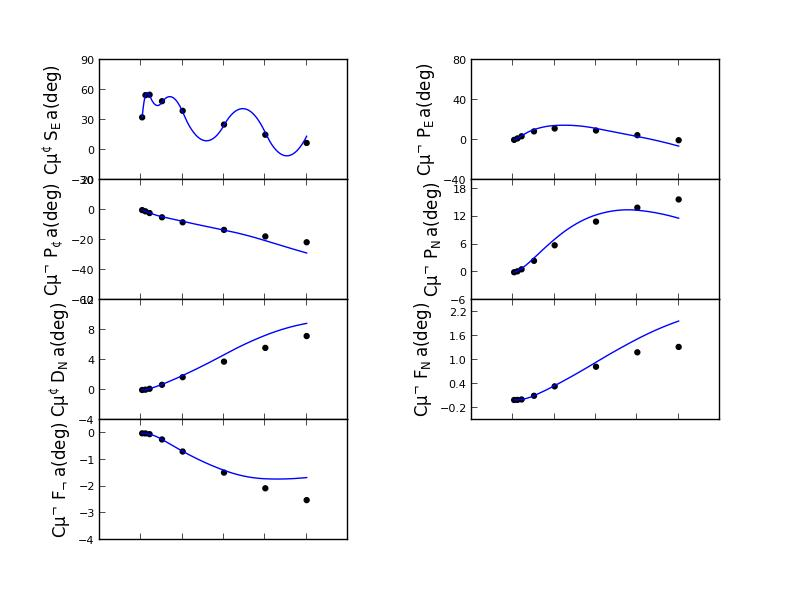
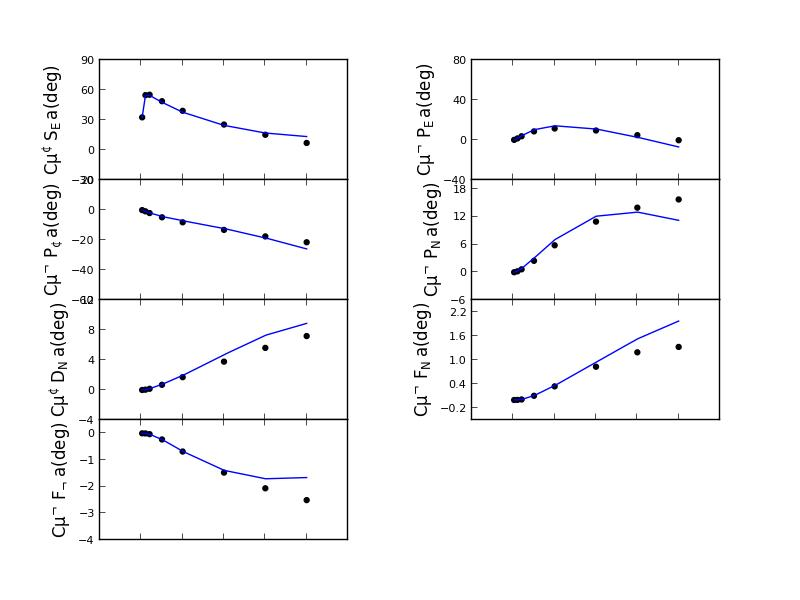
modified:   plot_scattering_phase_shift.py 	modified:   pp_phase_shift.jpg 	modified:   residual_data.txt

diff --git a/hw_Nmax_analysis/plot_phase_shift/plot_scattering_phase_shift.py b/hw_Nmax_analysis/plot_phase_shift/plot_scattering_phase_shift.py
@@ -32,7 +32,7 @@ def input_residual_data(file_path,raw_data):
 
 
 def plot_phase_shift():
-    file_path = "./residual_data_weight10.txt"
+    file_path = "./residual_data.txt"
     with open(file_path,'r') as f:
         count = len(open(file_path,'rU').readlines())
         data = f.readlines()
@@ -201,7 +201,7 @@ def plot_phase_shift():
 
 
 
-    plot_path = 'pp_phase_shift_2.jpg'
+    plot_path = 'pp_phase_shift.jpg'
     plt.savefig(plot_path)
     plt.show()
 
